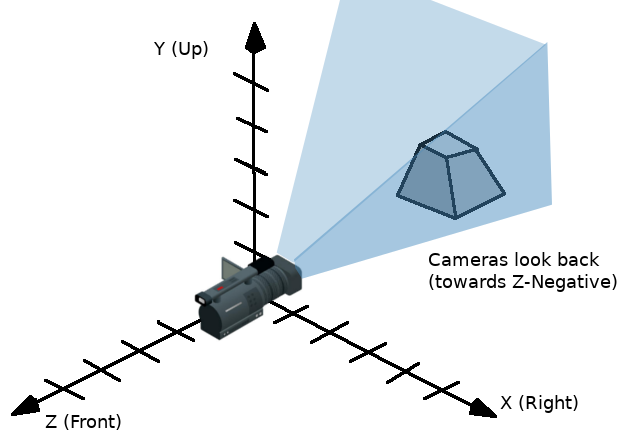
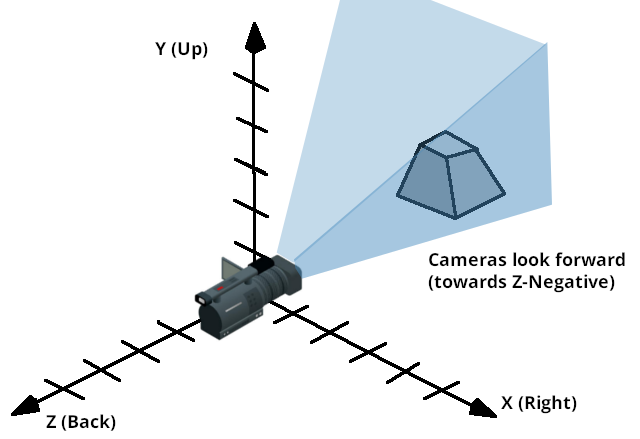
Merge pull request #11391 from RespiteFromReality/3d_transform_page
Fixes to "Using 3D transforms" page

diff --git a/tutorials/3d/using_transforms.rst b/tutorials/3d/using_transforms.rst
@@ -241,18 +241,24 @@ Obtaining information
 
 You might be thinking at this point: **"Ok, but how do I get angles from a transform?"**. The answer again is: you don't. You must do your best to stop thinking in angles.
 
-Imagine you need to shoot a bullet in the direction your player is facing. Just use the forward axis (commonly ``Z`` or ``-Z``).
+Imagine you need to shoot a bullet in the direction your player is facing. Just use the forward axis.
 
 .. tabs::
  .. code-tab:: gdscript GDScript
 
+    # On RigidBody3D.
+
+    # Keep in mind that -Z is forward.
     bullet.transform = transform
-    bullet.speed = transform.basis.z * BULLET_SPEED
+    bullet.linear_velocity = -transform.basis.z * BULLET_SPEED
 
  .. code-tab:: csharp
 
-    bullet.Transform = transform;
-    bullet.LinearVelocity = transform.Basis.Z * BulletSpeed;
+    // On RigidBody3D.
+
+    // Keep in mind that -Z is forward.
+    bullet.Transform = Transform;
+    bullet.LinearVelocity = -Transform.Basis.Z * BulletSpeed;
 
 Is the enemy looking at the player? Use the dot product for this (see the :ref:`doc_vector_math` tutorial for an explanation of the dot product):
 
@@ -278,24 +284,34 @@ Strafe left:
 .. tabs::
  .. code-tab:: gdscript GDScript
 
-    # Remember that +X is right
+    # On CharacterBody3D.
+
+    # Keep in mind that -X is left.
     if Input.is_action_pressed("strafe_left"):
-        translate_object_local(-transform.basis.x)
+        velocity = -transform.basis.x * MOVE_SPEED
+
+    move_and_slide()
 
  .. code-tab:: csharp
 
-    // Remember that +X is right
+    // On CharacterBody3D.
+
+    // Keep in mind that -X is left.
     if (Input.IsActionPressed("strafe_left"))
     {
-        TranslateObjectLocal(-Transform.Basis.X);
+        Velocity = -Transform.Basis.X * MoveSpeed;
     }
+
+    MoveAndSlide();
 
 Jump:
 
 .. tabs::
  .. code-tab:: gdscript GDScript
 
-    # Keep in mind Y is up-axis
+    # On CharacterBody3D.
+
+    # Keep in mind that +Y is up.
     if Input.is_action_just_pressed("jump"):
         velocity.y = JUMP_SPEED
 
@@ -303,10 +319,12 @@ Jump:
 
  .. code-tab:: csharp
 
-    // Keep in mind Y is up-axis
+    // On CharacterBody3D.
+
+    // Keep in mind that +Y is up.
     if (Input.IsActionJustPressed("jump"))
     {
-        velocity.Y = JumpSpeed;
+        Velocity = Vector3.Up * JumpSpeed;
     }
 
     MoveAndSlide();
@@ -332,8 +350,8 @@ Example of looking around, FPS style:
     func _input(event):
         if event is InputEventMouseMotion and event.button_mask & 1:
             # modify accumulated mouse rotation
-            rot_x += event.relative.x * LOOKAROUND_SPEED
-            rot_y += event.relative.y * LOOKAROUND_SPEED
+            rot_x -= event.relative.x * LOOKAROUND_SPEED
+            rot_y -= event.relative.y * LOOKAROUND_SPEED
             transform.basis = Basis() # reset rotation
             rotate_object_local(Vector3(0, 1, 0), rot_x) # first rotate in Y
             rotate_object_local(Vector3(1, 0, 0), rot_y) # then rotate in X
@@ -349,8 +367,8 @@ Example of looking around, FPS style:
         if (@event is InputEventMouseMotion mouseMotion)
         {
             // modify accumulated mouse rotation
-            _rotationX += mouseMotion.Relative.X * LookAroundSpeed;
-            _rotationY += mouseMotion.Relative.Y * LookAroundSpeed;
+            _rotationX -= mouseMotion.Relative.X * LookAroundSpeed;
+            _rotationY -= mouseMotion.Relative.Y * LookAroundSpeed;
 
             // reset rotation
             Transform3D transform = Transform;
